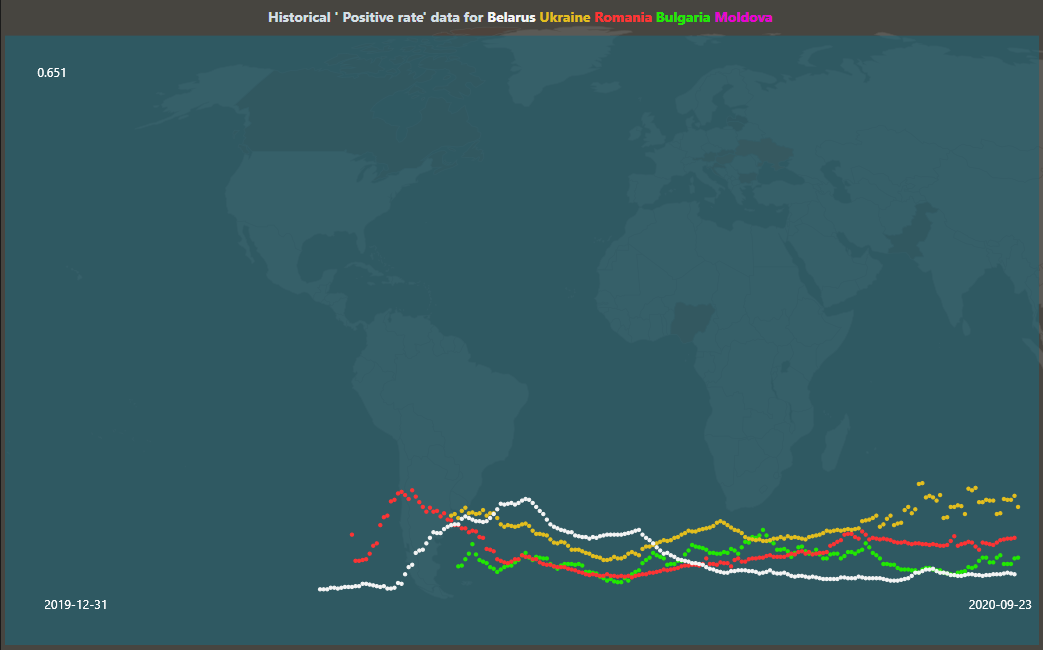
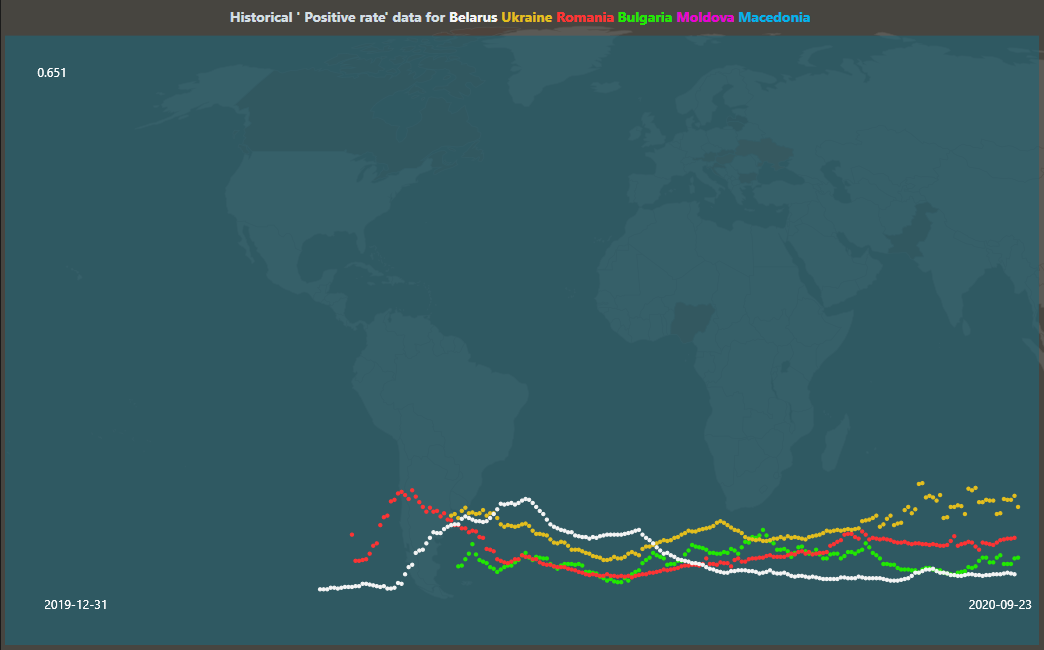
Update 2020-09-23 #2

diff --git a/index.md b/index.md
@@ -73,13 +73,24 @@ How about Central Europe? Another round of pick-and-choose: Poland, Czech Republ
 
 A trend simililar to the one in Western Europe is observed in Central Europe, with a spike in active cases per million in the Chech Republic and Hungary, and somewhat less in Poland and Slovakia. The curves are inconsistent in Serbia though.
 
-Now Eastern Europe: Belarus, Ukraine, Romania, Bulgaria, an Moldova (with the caveat tha positive rate data is not available for Moldova).
+Now Eastern Europe: Belarus, Ukraine, Romania, Bulgaria, Moldova, and Macedonia (with the caveat that positive rate data is not available for Moldova and Macedonia).
 
 ![Figure 15](/img/img021.png)
 ![Figure 16](/img/img022.png)
 
 While Belarus looks in suprisingly good shape, the outher 4 countries not so much, particularly Ukraine and Moldova. Romania shows an unexpected recent drop in active cases per million that is difficult to interpret.
 
-Finally, Northern Europe: 
+And now, Northern Europe: Norway, Denmark, Sweden, Finland, Estonia, Latvia, and Lithuania.
 
+![Figure 17](/img/img023.png)
+![Figure 18](/img/img024.png)
+
+Interesting: almost flat and cose to zero positive rate curves and yet big spikes in avive caes per million Sweden and Denmark. This could simply mean that these two countries have recently tested a lot more people than before, but it's a trend to watch.
+
+Finally, let's take a look at North America: Canada, United States, and Mexico.
+
+![Figure 19](/img/img025.png)
+![Figure 20](/img/img026.png)
+
+Yeah... I don't know about you but I see a big discrepancy here: in the US, the positive rate remains quite elevated andnthey likely conduct a lot of tests, so that would eplain the spike in active cases per million. However, in Mexico the positice rate is at "historical rates" and active case sper million have dtopped almost to zero?! 
 
